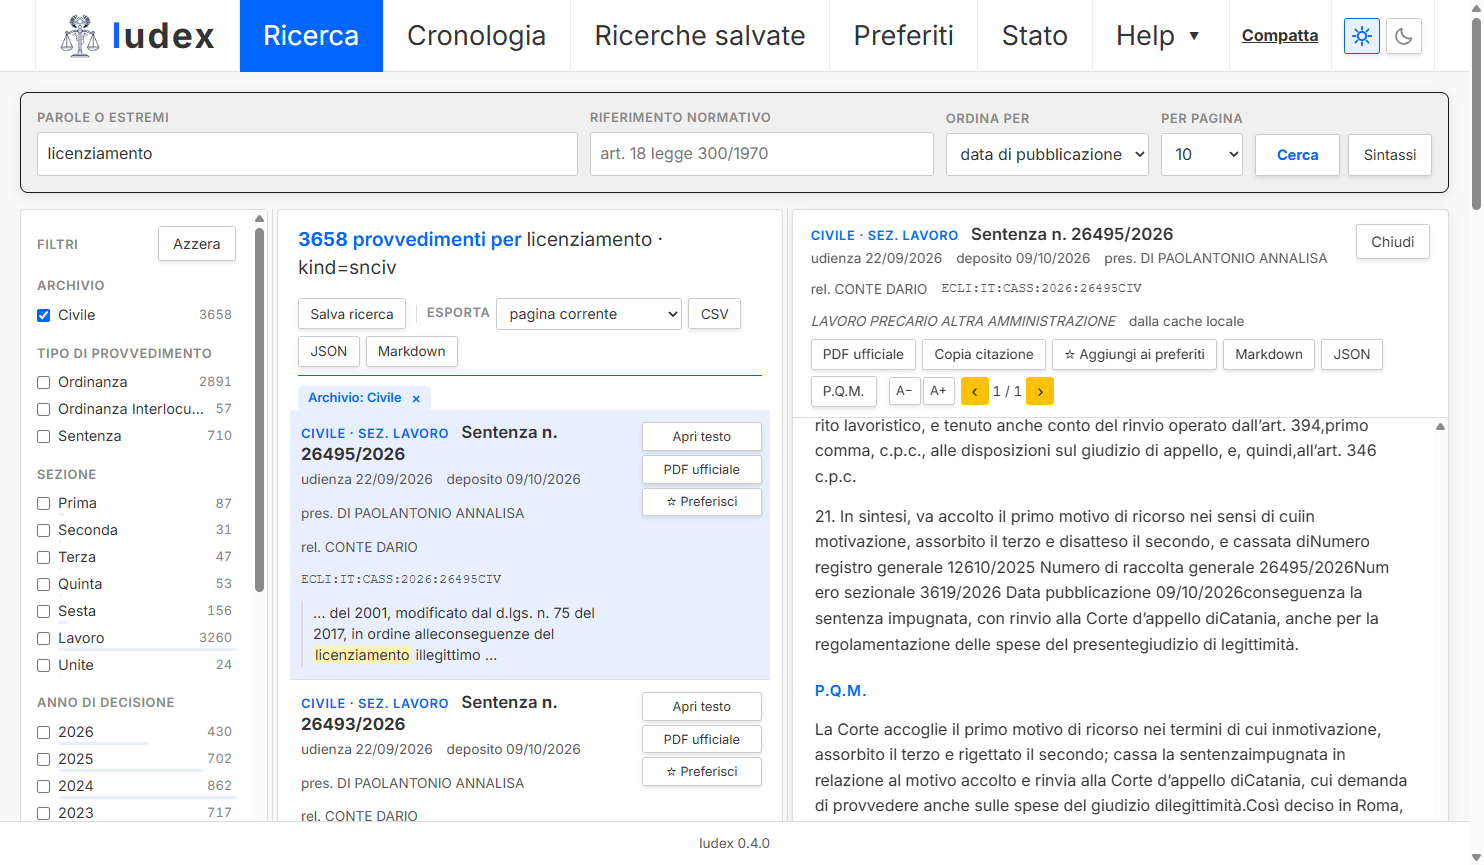
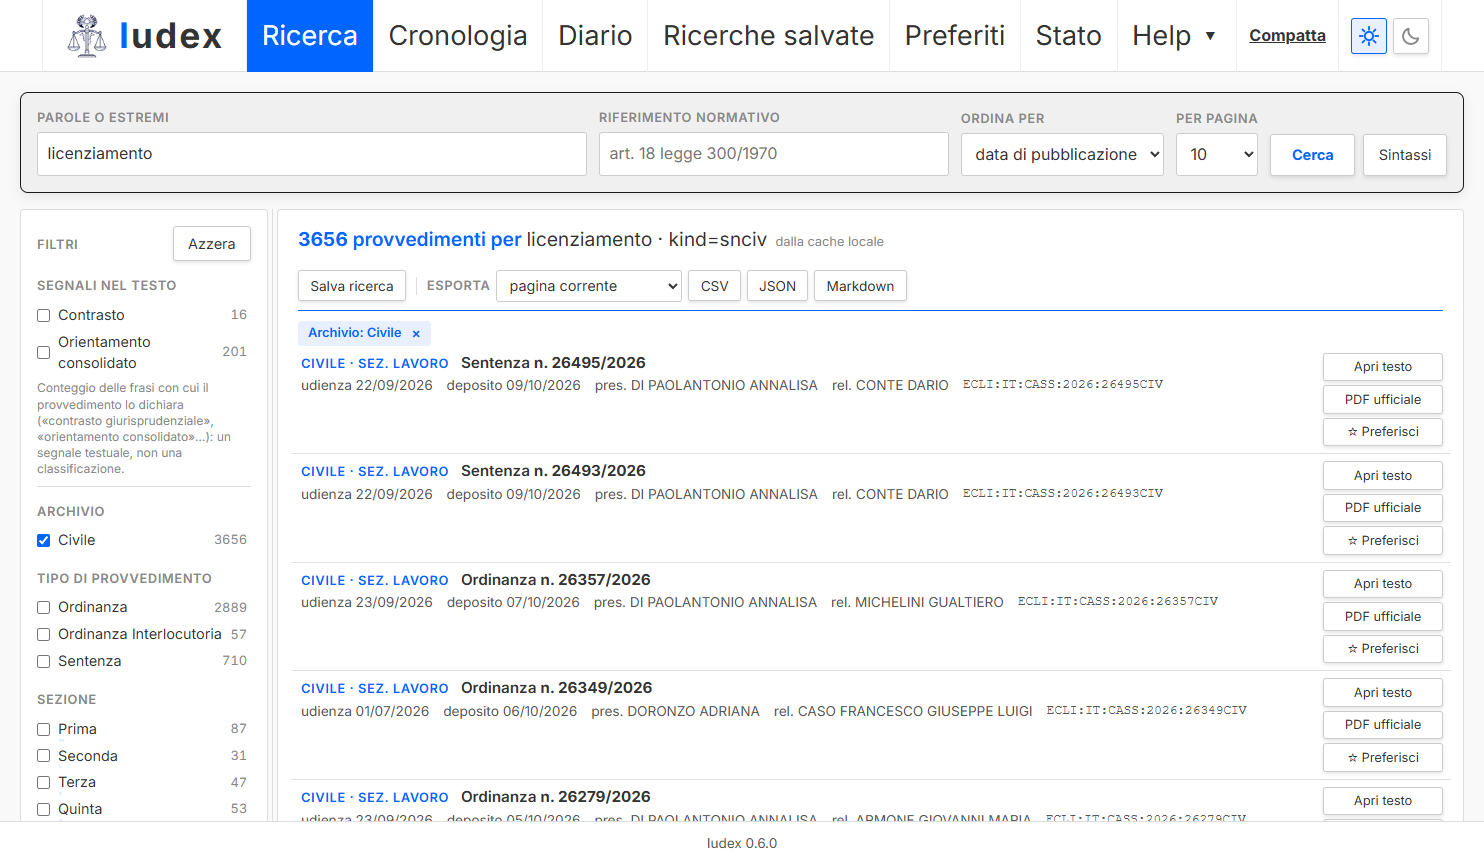
Iudex 0.6.0: CHANGELOG, versioni, schermate nuove (risultati, tema scuro, Diario)
Le schermate mostrano ricerche per materia e soli estremi; dalla schermata del Diario è
stata tolta una ricerca per nome di persona.

diff --git a/iudex/static/versioni.html b/iudex/static/versioni.html
@@ -31,6 +31,7 @@
 
 <main class="informativa"><div class="pagina-info">
   <nav aria-label="Indice">
+    <a href="#v060">0.6.0 — 22 ottobre 2026</a>
     <a href="#v050">0.5.0 — 21 ottobre 2026</a>
     <a href="#v040">0.4.0 — 21 ottobre 2026</a>
     <a href="#v031">0.3.1 — 21 ottobre 2026</a>
@@ -42,6 +43,26 @@
   <article class="documento">
     <h1>Versioni di Iudex</h1>
     <p>La stessa storia è nel file <code>CHANGELOG.md</code> del repository; questa pagina la riporta per chi usa l'app. La versione in esecuzione è indicata nella scheda <em>Stato</em>.</p>
+
+    <h2 id="v060">0.6.0 <span class="data">— 22 ottobre 2026</span></h2>
+    <h3>Ricerca</h3>
+    <ul>
+      <li><b>Segnali di orientamento</b> in cima ai filtri: quanti provvedimenti dichiarano un contrasto o richiamano un orientamento consolidato, contati nella stessa richiesta della ricerca. La spunta filtra ed evidenzia le frasi; senza spunta i risultati restano quelli del sito.</li>
+    </ul>
+    <h3>Esportazione</h3>
+    <ul>
+      <li><b>FollowTheMoney</b>: le sentenze consultate come entità <code>.ftm</code> (CourtCase, Document, Person, CourtCaseParty) per <code>ftm</code> e Aleph.</li>
+    </ul>
+    <h3>Server MCP</h3>
+    <ul>
+      <li>Errori leggibili dal modello, annotazioni di sola lettura, filtro per segnale; la prima lettura di una sentenza lunga mostra inizio e P.Q.M.</li>
+    </ul>
+    <h3>Robustezza</h3>
+    <ul>
+      <li>Pausa secondo <code>Retry-After</code> dopo un 403 o un 429, visibile nella scheda Stato; sessione riaperta quando il sito risponde con una pagina al posto dei dati.</li>
+      <li>Errori imprevisti e dati non validi spiegati in chiaro; cache scaduta tolta all'avvio.</li>
+      <li><code>python -m iudex --apri</code> apre il browser quando il server è pronto e riusa un Iudex già avviato.</li>
+    </ul>
 
     <h2 id="v050">0.5.0 <span class="data">— 21 ottobre 2026</span></h2>
     <h3>Diario delle consultazioni</h3>

diff --git a/iudex/__init__.py b/iudex/__init__.py
@@ -1,3 +1,3 @@
 """Iudex: interfaccia locale per SentenzeWeb (Corte Suprema di Cassazione)."""
 
-__version__ = "0.5.0"
+__version__ = "0.6.0"

diff --git a/CHANGELOG.md b/CHANGELOG.md
@@ -1,5 +1,42 @@
 # Registro delle modifiche
 
+## 0.6.0 — 2026-10-22
+
+### Ricerca
+- **Segnali di orientamento**: in cima ai filtri, quanti provvedimenti fra i risultati
+  dichiarano un contrasto («contrasto giurisprudenziale», «difforme orientamento») o
+  richiamano un orientamento consolidato («orientamento consolidato», «in senso conforme»).
+  I conteggi sono `facet.query` nella stessa richiesta della ricerca; la spunta filtra e
+  evidenzia le frasi. Senza spunta i risultati restano quelli del sito. Idea ed elenco delle
+  frasi da mcp-legal-it (capazme, Apache-2.0).
+
+### Esportazione
+- **FollowTheMoney**: le sentenze consultate come entità `.ftm` (CourtCase, Document,
+  Person, CourtCaseParty), per `ftm` e Aleph; validato con followthemoney 4.11.1.
+
+### Server MCP
+- Errori come `ToolError` (il modello legge il messaggio), annotazioni di sola lettura,
+  parametri con valori ammessi nello schema, filtro `segnale` e conteggi dei segnali.
+- `leggi_sentenza` alla prima lettura di un testo lungo restituisce l'inizio e la parte
+  dal P.Q.M., con i caratteri omessi indicati. Richiede `mcp` 2.x.
+- Test in memoria con `Client(mcp)`; la CI installa l'extra `mcp`.
+
+### Robustezza
+- Dopo un 403 o un 429 Iudex non manda richieste per il tempo di `Retry-After` (secondi o
+  data HTTP; un minuto se manca, al più un'ora) e lo mostra nella scheda Stato; il 403 e
+  una pagina HTML al posto del JSON fanno riaprire la sessione.
+- Risposte del server senza l'elenco dei documenti e risposte HTML del servizio dei
+  riferimenti normativi sono errori espliciti e non finiscono in cache.
+- Errori imprevisti in JSON («errore interno di Iudex»), dati non validi con 422 e campo;
+  corpi di POST e PUT validati con Pydantic.
+- Voci di cache scadute tolte all'avvio (indici su `quando`).
+- `python -m iudex --apri` apre il browser quando il server risponde, sulla porta di
+  `IUDEX_PORTA`; se Iudex è già avviato apre quello. `avvia.cmd` lo usa.
+
+### Documentazione
+- Revisione terminologica dei testi; guida, domande frequenti e README aggiornati;
+  anteprima social `docs/immagini/anteprima-social.png`.
+
 ## 0.5.0 — 2026-10-21
 
 ### Diario delle consultazioni

diff --git a/README.md b/README.md
@@ -16,7 +16,7 @@ Iudex non è un archivio e non copia la banca dati: ogni ricerca interroga il se
 Corte come farebbe il browser, ma con un'interfaccia pensata per leggere e confrontare,
 una cronologia, i preferiti, l'esportazione e una cache locale dei testi già aperti.
 
-![Iudex: risultati in vista compatta con il filtro "Civile" attivo e il pannello di lettura aperto sul dispositivo di una sentenza](docs/immagini/risultati.png)
+![Iudex: risultati in vista compatta con il filtro "Civile" attivo, i segnali di orientamento e i filtri con i conteggi](docs/immagini/risultati.png)
 
 ## Che cosa fa
 
@@ -51,9 +51,15 @@ una cronologia, i preferiti, l'esportazione e una cache locale dei testi già ap
 ## Schermate
 
 Vista compatta con il tema scuro, che si attiva da solo la sera: solo estremi, date,
-presidente, relatore ed ECLI; i filtri a sinistra con le barre proporzionali.
+presidente, relatore ed ECLI; a sinistra i segnali di orientamento (qui il filtro
+«Orientamento consolidato» attivo) e i filtri con le barre proporzionali.
 
-![Iudex: tema scuro, righe compatte](docs/immagini/tema-scuro.png)
+![Iudex: tema scuro, righe compatte, filtro sui provvedimenti che richiamano un orientamento consolidato](docs/immagini/tema-scuro.png)
+
+Il Diario conserva, giorno per giorno, le ricerche e le sentenze aperte da ciascuna, con il
+testo; da qui si esporta in JSONL, CSV, zip o FollowTheMoney.
+
+![Iudex: scheda Diario con le ricerche di un giorno e le sentenze aperte da ciascuna](docs/immagini/diario.png)
 
 Le pagine informative integrate (domande frequenti, versioni, software simili) usano lo
 stesso stile e sono raggiungibili dal menu Help della barra di navigazione.
